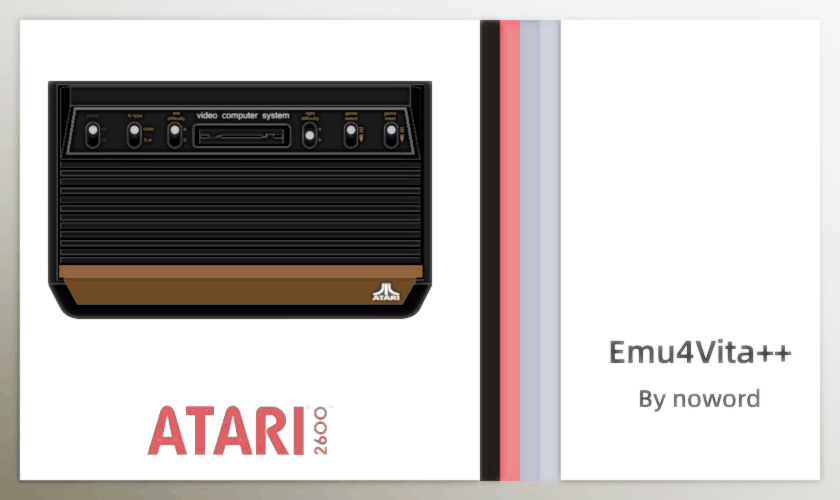
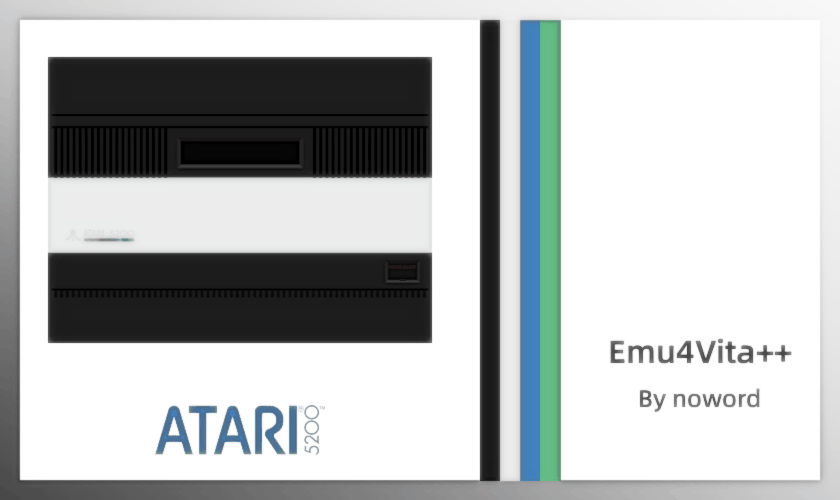
add hatari

diff --git a/frontend/source/core_spec/defines.cpp b/frontend/source/core_spec/defines.cpp
@@ -115,7 +115,7 @@ const uint8_t RETRO_KEYS[] = {
     RETRO_DEVICE_ID_JOYPAD_R2,
     RETRO_DEVICE_ID_JOYPAD_L3,
     RETRO_DEVICE_ID_JOYPAD_R3,
-#elif defined(ATARI_BUILD)
+#elif defined(ATARI2600_BUILD)
     RETRO_DEVICE_ID_JOYPAD_B,
     RETRO_DEVICE_ID_JOYPAD_L,
     RETRO_DEVICE_ID_JOYPAD_R,
@@ -123,6 +123,29 @@ const uint8_t RETRO_KEYS[] = {
     RETRO_DEVICE_ID_JOYPAD_R2,
     RETRO_DEVICE_ID_JOYPAD_L3,
     RETRO_DEVICE_ID_JOYPAD_R3,
+#elif defined(ATARI5200_BUILD)
+    RETRO_DEVICE_ID_JOYPAD_A,
+    RETRO_DEVICE_ID_JOYPAD_B,
+    RETRO_DEVICE_ID_JOYPAD_X,
+    RETRO_DEVICE_ID_JOYPAD_Y,
+    RETRO_DEVICE_ID_JOYPAD_L,
+    RETRO_DEVICE_ID_JOYPAD_R,
+    RETRO_DEVICE_ID_JOYPAD_L2,
+    RETRO_DEVICE_ID_JOYPAD_R2,
+    RETRO_DEVICE_ID_JOYPAD_L3,
+    RETRO_DEVICE_ID_JOYPAD_R3,
+#elif defined(ATARI7800_BUILD)
+    RETRO_DEVICE_ID_JOYPAD_A,
+    RETRO_DEVICE_ID_JOYPAD_B,
+    RETRO_DEVICE_ID_JOYPAD_X,
+    RETRO_DEVICE_ID_JOYPAD_L,
+    RETRO_DEVICE_ID_JOYPAD_R,
+#elif defined(ATARIST_BUILD)
+    RETRO_DEVICE_ID_JOYPAD_A,
+    RETRO_DEVICE_ID_JOYPAD_Y,
+    RETRO_DEVICE_ID_JOYPAD_L,
+    RETRO_DEVICE_ID_JOYPAD_R,
+    RETRO_DEVICE_ID_JOYPAD_L2,
 #elif defined(VECTREX_BUILD)
     RETRO_DEVICE_ID_JOYPAD_A,
     RETRO_DEVICE_ID_JOYPAD_B,
@@ -247,7 +270,7 @@ const std::vector<ControlMapConfig> CONTROL_MAPS = {
     {SCE_CTRL_R2, RETRO_DEVICE_ID_JOYPAD_R2},
     {SCE_CTRL_L3, RETRO_DEVICE_ID_JOYPAD_L3},
     {SCE_CTRL_R3, RETRO_DEVICE_ID_JOYPAD_R3},
-#elif defined(ATARI_BUILD)
+#elif defined(ATARI2600_BUILD)
     {SCE_CTRL_CROSS, RETRO_DEVICE_ID_JOYPAD_B},
     {SCE_CTRL_TRIANGLE, RETRO_DEVICE_ID_JOYPAD_B},
     {SCE_CTRL_CIRCLE, RETRO_DEVICE_ID_JOYPAD_B},
@@ -260,6 +283,45 @@ const std::vector<ControlMapConfig> CONTROL_MAPS = {
     {SCE_CTRL_R2, RETRO_DEVICE_ID_JOYPAD_R2},
     {SCE_CTRL_L3, RETRO_DEVICE_ID_JOYPAD_L3},
     {SCE_CTRL_R3, RETRO_DEVICE_ID_JOYPAD_R3},
+#elif defined(ATARI5200_BUILD)
+    {SCE_CTRL_CROSS, RETRO_DEVICE_ID_JOYPAD_B},
+    {SCE_CTRL_TRIANGLE, RETRO_DEVICE_ID_JOYPAD_X},
+    {SCE_CTRL_CIRCLE, RETRO_DEVICE_ID_JOYPAD_A},
+    {SCE_CTRL_SQUARE, RETRO_DEVICE_ID_JOYPAD_Y},
+    {SCE_CTRL_SELECT, RETRO_DEVICE_ID_JOYPAD_SELECT},
+    {SCE_CTRL_START, RETRO_DEVICE_ID_JOYPAD_START},
+    {SCE_CTRL_L1, RETRO_DEVICE_ID_JOYPAD_L},
+    {SCE_CTRL_R1, RETRO_DEVICE_ID_JOYPAD_R},
+    {SCE_CTRL_L2, RETRO_DEVICE_ID_JOYPAD_L2},
+    {SCE_CTRL_R2, RETRO_DEVICE_ID_JOYPAD_R2},
+    {SCE_CTRL_L3, RETRO_DEVICE_ID_JOYPAD_L3},
+    {SCE_CTRL_R3, RETRO_DEVICE_ID_JOYPAD_R3},
+#elif defined(ATARI7800_BUILD)
+    {SCE_CTRL_CROSS, RETRO_DEVICE_ID_JOYPAD_B},
+    {SCE_CTRL_TRIANGLE, RETRO_DEVICE_ID_JOYPAD_X},
+    {SCE_CTRL_CIRCLE, RETRO_DEVICE_ID_JOYPAD_A},
+    {SCE_CTRL_SQUARE, RETRO_DEVICE_ID_JOYPAD_B},
+    {SCE_CTRL_SELECT, RETRO_DEVICE_ID_JOYPAD_SELECT},
+    {SCE_CTRL_START, RETRO_DEVICE_ID_JOYPAD_START},
+    {SCE_CTRL_L1, RETRO_DEVICE_ID_JOYPAD_L},
+    {SCE_CTRL_R1, RETRO_DEVICE_ID_JOYPAD_R},
+    {SCE_CTRL_L2},
+    {SCE_CTRL_R2},
+    {SCE_CTRL_L3},
+    {SCE_CTRL_R3},
+#elif defined(ATARIST_BUILD)
+    {SCE_CTRL_CROSS, RETRO_DEVICE_ID_JOYPAD_A},
+    {SCE_CTRL_TRIANGLE, RETRO_DEVICE_ID_JOYPAD_Y},
+    {SCE_CTRL_CIRCLE, RETRO_DEVICE_ID_JOYPAD_A},
+    {SCE_CTRL_SQUARE, RETRO_DEVICE_ID_JOYPAD_Y},
+    {SCE_CTRL_SELECT, RETRO_DEVICE_ID_JOYPAD_SELECT},
+    {SCE_CTRL_START, RETRO_DEVICE_ID_JOYPAD_START},
+    {SCE_CTRL_L1, RETRO_DEVICE_ID_JOYPAD_L},
+    {SCE_CTRL_R1, RETRO_DEVICE_ID_JOYPAD_R},
+    {SCE_CTRL_L2, RETRO_DEVICE_ID_JOYPAD_L2},
+    {SCE_CTRL_R2},
+    {SCE_CTRL_L3},
+    {SCE_CTRL_R3},
 #elif defined(VECTREX_BUILD)
     {SCE_CTRL_CROSS, RETRO_DEVICE_ID_JOYPAD_X},
     {SCE_CTRL_TRIANGLE, RETRO_DEVICE_ID_JOYPAD_B},

diff --git a/arch/source/app.cpp b/arch/source/app.cpp
@@ -56,9 +56,10 @@ App::App() : _index_x(0), _index_y(0)
     style->Colors[ImGuiCol_TitleBg] = style->Colors[ImGuiCol_TitleBgActive];
 
     _buttons = {
-        new CoreButton("ATARI", {{"Stella 2014 (Atari 2600)", "Stella2014"},
-                                 {"Atari800 (Atari 5200)", "Atari800"},
-                                 {"ProSystem (Atari 7800)", "ProSystem"}}),
+        new CoreButton("ATARI2600", {{"Stella 2014", "Stella2014"}}),
+        new CoreButton("ATARI5200", {{"Atari800", "Atari800"}}),
+        new CoreButton("ATARI7800", {{"ProSystem", "ProSystem"}}),
+        new CoreButton("ATARIST", {{"Hatari", "hatari"}}),
         new CoreButton("VECTREX", {{"vecx", "vecx"}}),
         new CoreButton("AMIGA", {{"uae4arm", "uae4arm"}}),
         new CoreButton("ZXS", {{"fuse", "fuse"}}),
@@ -210,12 +211,12 @@ void App::UnsetInputHooks(Input *input)
 
 void App::_OnKeyLeft(Input *input)
 {
-    LOOP_MINUS_ONE(_index_x, _buttons.size() / ROW_COUNT);
+    LOOP_MINUS_ONE(_index_x, (_buttons.size() + _index_y) / ROW_COUNT);
 }
 
 void App::_OnKeyRight(Input *input)
 {
-    LOOP_PLUS_ONE(_index_x, _buttons.size() / ROW_COUNT);
+    LOOP_PLUS_ONE(_index_x, (_buttons.size() + _index_y) / ROW_COUNT);
 }
 
 void App::_OnKeyUp(Input *input)

diff --git a/frontend/source/emu/emulator.h b/frontend/source/emu/emulator.h
@@ -25,6 +25,7 @@ enum VIDEO_ROTATION
 
 extern bool EnvironmentCallback(unsigned cmd, void *data);
 extern void VideoRefreshCallback(const void *data, unsigned width, unsigned height, size_t pitch);
+extern void AudioSampleCallback(int16_t left, int16_t right);
 extern size_t AudioSampleBatchCallback(const int16_t *data, size_t frames);
 extern void InputPollCallback();
 extern int16_t InputStateCallback(unsigned port, unsigned device, unsigned index, unsigned id);
@@ -69,6 +70,7 @@ public:
 
     friend bool EnvironmentCallback(unsigned cmd, void *data);
     friend void VideoRefreshCallback(const void *data, unsigned width, unsigned height, size_t pitch);
+    friend void AudioSampleCallback(int16_t left, int16_t right);
     friend size_t AudioSampleBatchCallback(const int16_t *data, size_t frames);
     friend void InputPollCallback();
     friend int16_t InputStateCallback(unsigned port, unsigned device, unsigned index, unsigned id);

diff --git a/script/cores.py b/script/cores.py
@@ -9,7 +9,10 @@ CORES = {
     'PS1': ('pcsx_rearmed',),
     'SNES': ('snes9x2002', 'snes9x2005', 'snes9x2010', 'supafaust'),
     'WSC': ('mednafen_wswan',),
-    'ATARI': ('stella2014', 'prosystem', 'atari800'),
+    'ATARI2600': ('stella2014',),
+    'ATARI5200': ('atari800',),
+    'ATARI7800': ('prosystem',),
+    'ATARIST': ('hatari',),
     'DOS': ('dosbox_pure', 'dosbox_svn'),
     'VECTREX': ('vecx',),
     'AMIGA': ('uae4arm',),
@@ -51,4 +54,5 @@ NAMES = {
     'uae4arm': 'uae4arm',
     'fuse': 'fuse',
     'neocd': 'neocd',
+    'hatari': 'Hatari',
 }

diff --git a/frontend/source/directory.h b/frontend/source/directory.h
@@ -11,6 +11,14 @@ struct DirItem
     std::string entry_name = "";
 };
 
+struct InsensitiveCompare
+{
+    bool operator()(const std::string &a, const std::string &b) const
+    {
+        return strcasecmp(a.c_str(), b.c_str()) < 0;
+    }
+};
+
 class Directory
 {
 public:
@@ -35,7 +43,7 @@ public:
 
 private:
     std::vector<DirItem> _items;
-    std::set<std::string> _ext_filters;
+    std::set<std::string, InsensitiveCompare> _ext_filters;
     std::set<size_t> _search_results;
     std::string _current_path;
     std::string _search_str;

diff --git a/frontend/source/emu/input.cpp b/frontend/source/emu/input.cpp
@@ -70,14 +70,14 @@ int16_t Emulator::_GetJoypadState(unsigned index, unsigned id)
 
         return state;
     }
-    else if (id >= 16)
-    {
-        LogError("  InputStateCallback, wrong id %d", id);
-        return 0;
-    }
+    // else if (id >= 16)
+    // {
+    //     LogError("  InputStateCallback, wrong id %d", id);
+    //     return 0;
+    // }
     else
     {
-        return (key_states & _keys[id]) ? 1 : 0;
+        return (key_states & _keys[id & 0xf]) ? 1 : 0;
     }
 }
 

diff --git a/frontend/source/emu/callbacks.cpp b/frontend/source/emu/callbacks.cpp
@@ -187,6 +187,12 @@ bool EnvironmentCallback(unsigned cmd, void *data)
 
         break;
 
+    case RETRO_ENVIRONMENT_GET_CORE_ASSETS_DIRECTORY:
+        LogDebug("  cmd: RETRO_ENVIRONMENT_GET_CORE_ASSETS_DIRECTORY");
+        if (data)
+            *(const char **)data = CORE_SAVEFILES_DIR;
+        break;
+
     case RETRO_ENVIRONMENT_GET_SAVE_DIRECTORY:
         LogDebug("  cmd: RETRO_ENVIRONMENT_GET_SAVE_DIRECTORY");
         if (data)

diff --git a/frontend/source/audio/audio.cpp b/frontend/source/audio/audio.cpp
@@ -11,6 +11,13 @@
 
 const uint32_t SAMPLE_RATES[] = {8000, 11025, 12000, 16000, 22050, 24000, 32000, 44100, 48000};
 
+void AudioSampleCallback(int16_t left, int16_t right)
+{
+    LogFunctionNameLimited;
+    int16_t data[2] = {left, right};
+    gEmulator->_audio.SendAudioSample(data, 1);
+}
+
 size_t AudioSampleBatchCallback(const int16_t *data, size_t frames)
 {
     LogFunctionNameLimited;

diff --git a/frontend/source/emu/emulator.cpp b/frontend/source/emu/emulator.cpp
@@ -67,6 +67,7 @@ void Emulator::Init()
 
     retro_set_environment(EnvironmentCallback);
     retro_set_video_refresh(VideoRefreshCallback);
+    retro_set_audio_sample(AudioSampleCallback);
     retro_set_audio_sample_batch(AudioSampleBatchCallback);
     retro_set_input_poll(InputPollCallback);
     retro_set_input_state(InputStateCallback);

diff --git a/frontend/source/ui/ui.cpp b/frontend/source/ui/ui.cpp
@@ -369,7 +369,7 @@ void Ui::OnStatusChanged(APP_STATUS status)
 void Ui::SetHint(const char *s, int frame_count)
 {
     LogFunctionName;
-    LogInfo("  hint: %d %s", frame_count, s);
+    LogDebug("  hint: %d %s", frame_count, s);
     _hint = LanguageString(s);
     _hint_count = frame_count;
 }
